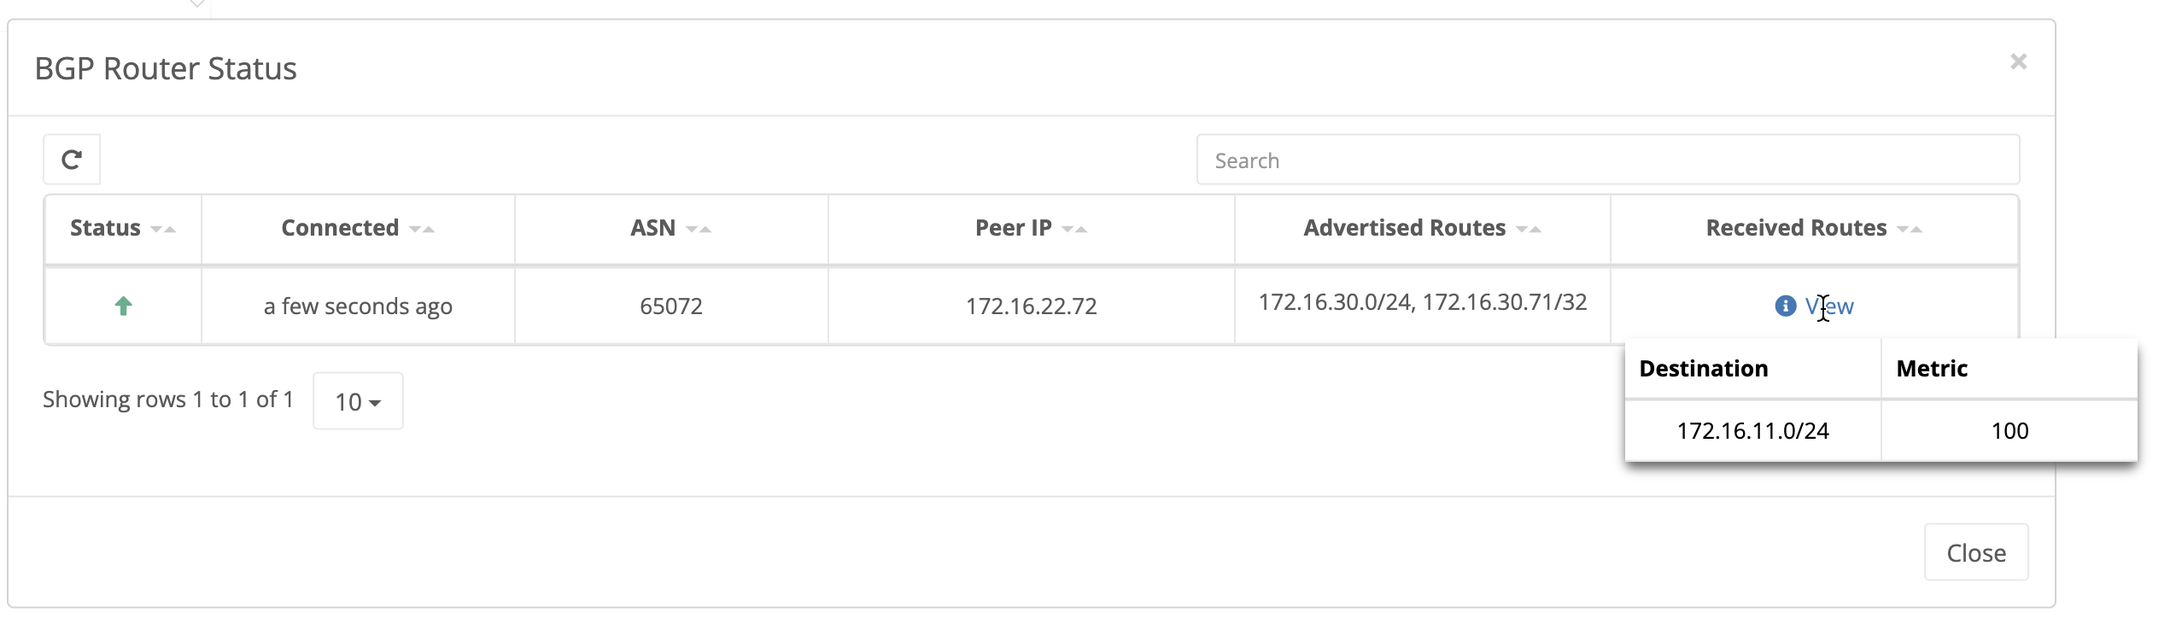
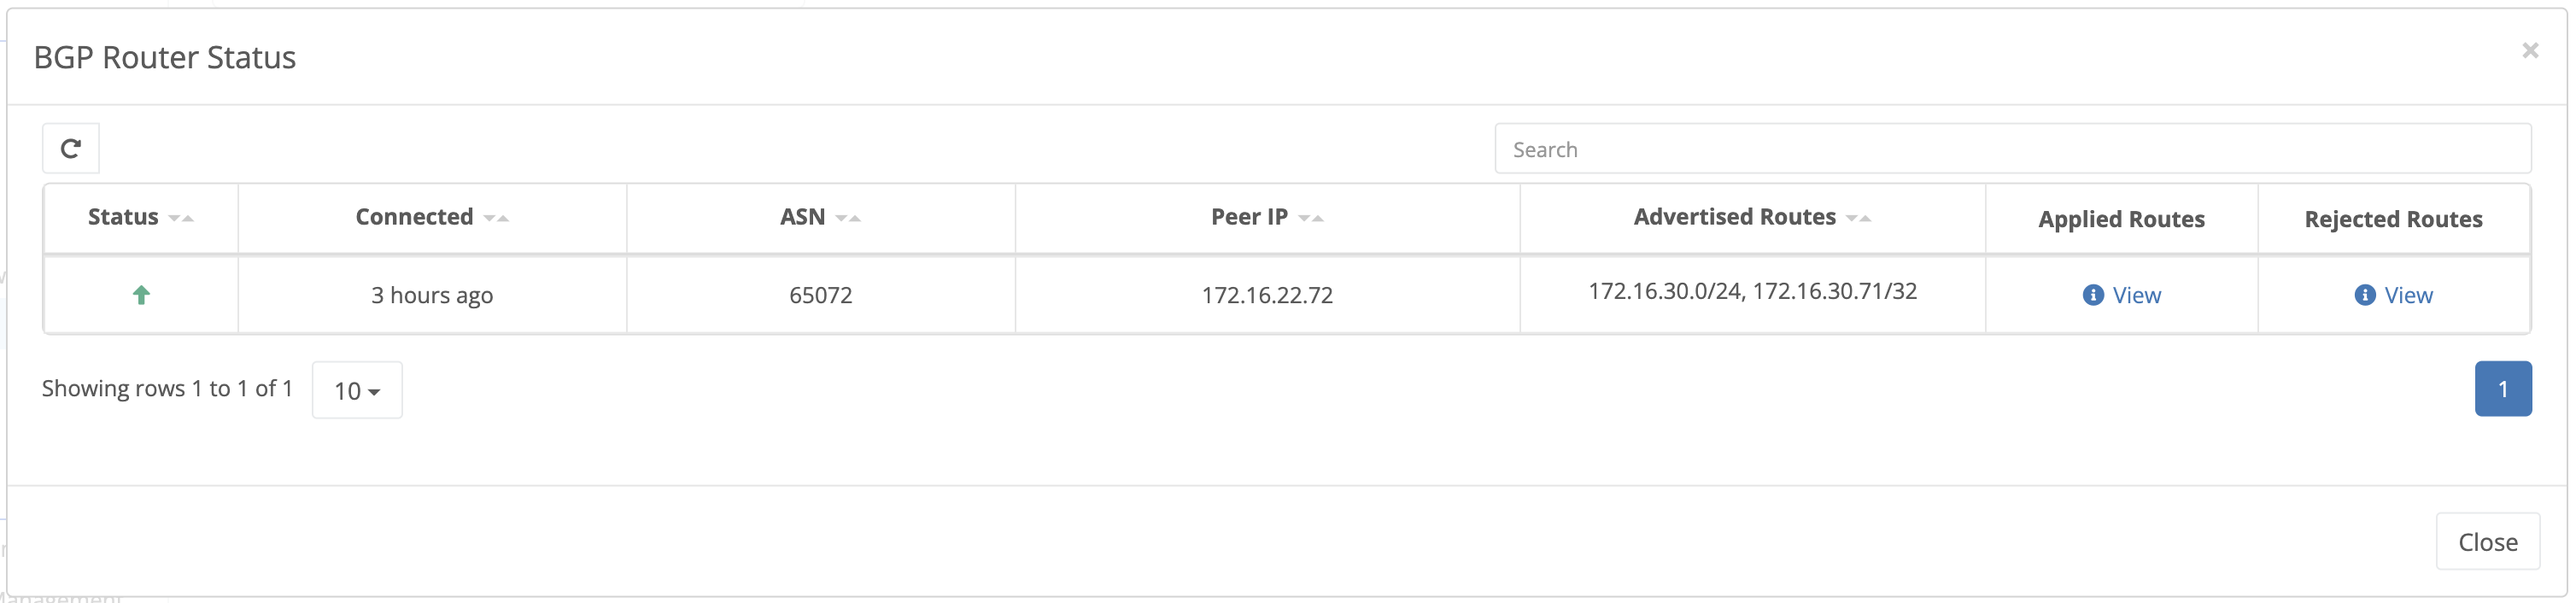
bgp status improvement

diff --git a/content/en/docs/nodes/bgp/index.md b/content/en/docs/nodes/bgp/index.md
@@ -111,12 +111,13 @@ Once issued you should see the confirmation message: Restart request sent.
 
 The BGP Status tool allows you to see information about the state of BGP peering.
 
-{{<tgimg src="bgp-status-output.png" caption="BGP Status Output" width="80%">}}
+{{<tgimg src="bgp-status-output.png" caption="BGP Status Output" width="90%">}}
 {{<fields>}}
 {{<field "Status">}}Shows if the peer is actively connected or not{{</field>}}
 {{<field "Connected">}}If connected, shows how long the peering has been established{{</field>}}
 {{<field "ASN">}}The Autonomous System Number that identifies the router{{</field>}}
 {{<field "Peer IP">}}The IP address of the peer router{{</field>}}
 {{<field "Advertised Routes">}}Lists the routes being advertised to the peer router{{</field>}}
-{{<field "Recieved Routes">}}Hovering over the view button displays the routes received from the peer and their associated metrics{{</field>}}
+{{<field "Applied Routes">}}Hovering over the view button displays the routes received from the peer that matched an [import policy](#define-import-policies )and their associated metrics {{<tgimg src="bgp-applied-routes.png" width="60%">}} {{</field>}}
+{{<field "Rejected Routes">}}  Hovering over the view button displays the routes received from the peer that did not match an [import policy](#define-import-policies) or was rejected for other reasons {{<tgimg src="bgp-rejected-routes.png" width="75%" >}} {{</field>}}
 {{</fields>}}
